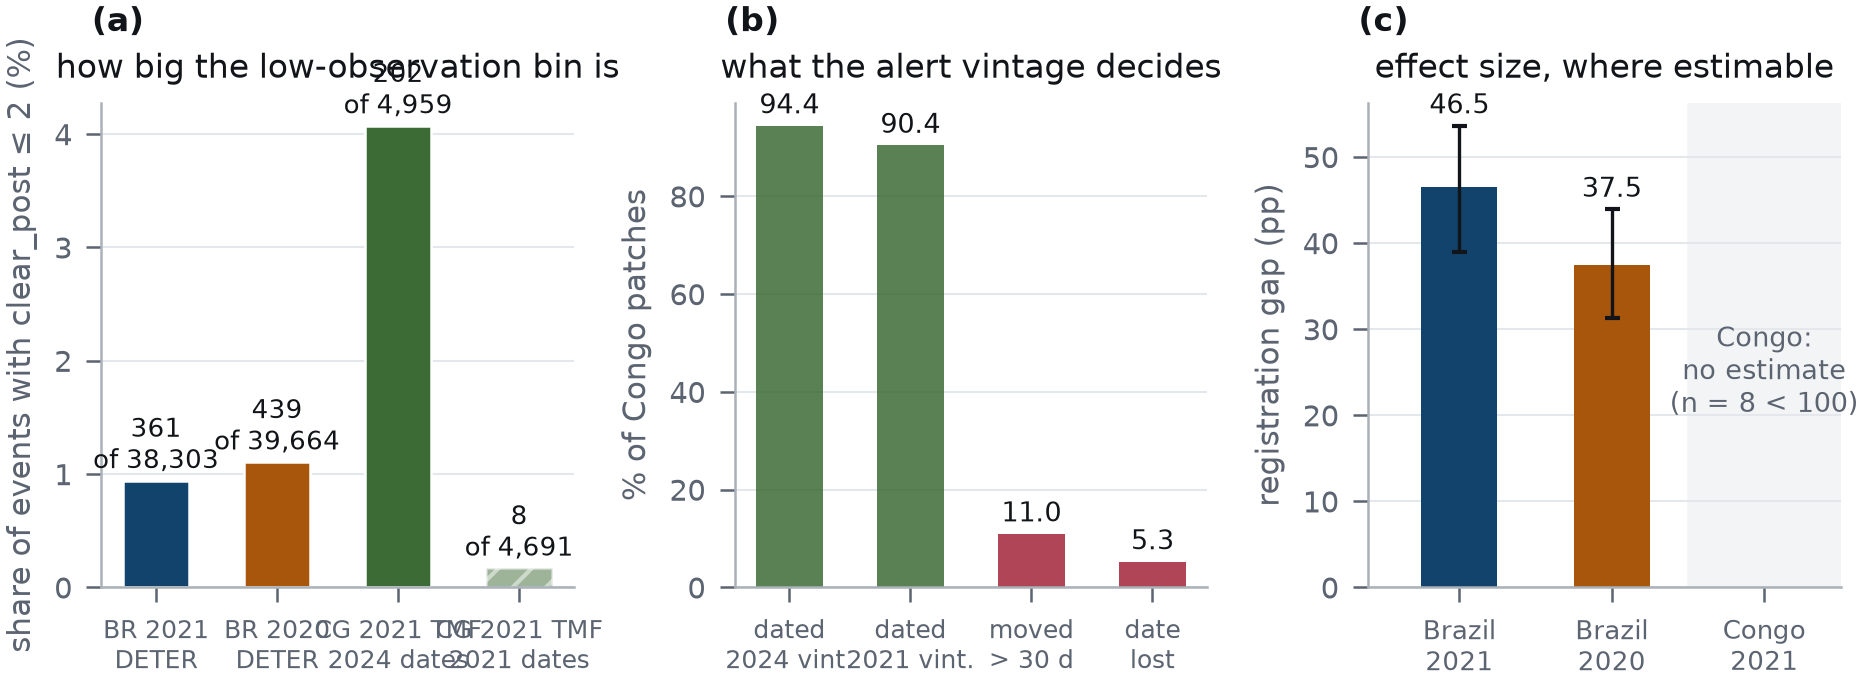
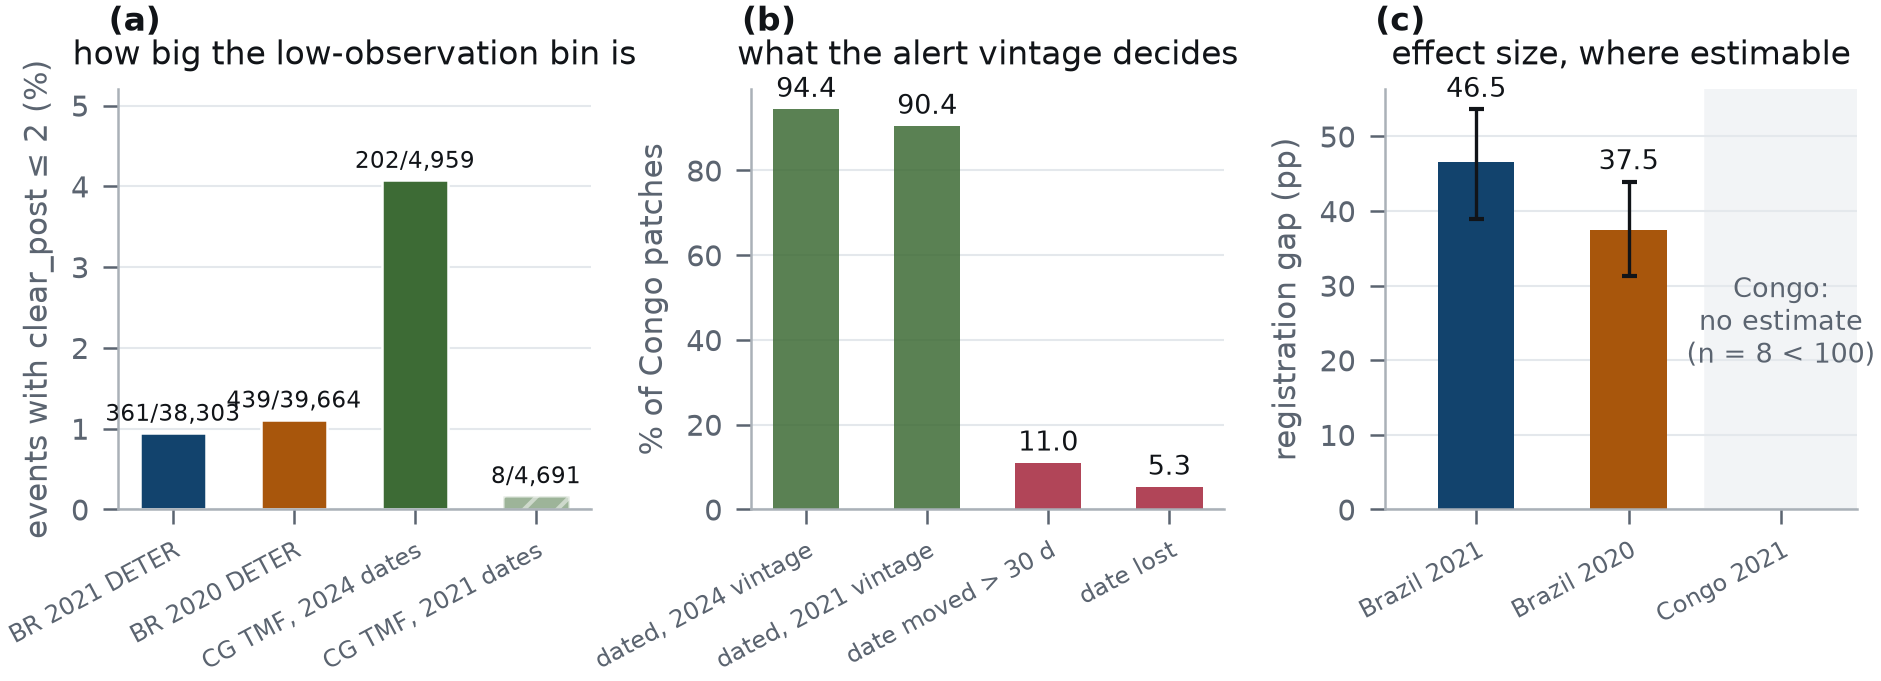
TB01-P8 item 4: F6 rotated category labels, annotations clear of the title
Panels (a), (b) and (c) now carry single-line category labels rotated 28 degrees and
right-anchored, so neighbouring labels no longer run into one another. Panel (a) gains
headroom so the '202/4,959' callout on the tall Congo bar sits below the title rather than
across it, the count annotations are compressed to n/total form so the two short bars do
not collide, and the y-axis label is shortened to clear the rotated ticks.

diff --git a/aef_explore/paper/code/fig_results.py b/aef_explore/paper/code/fig_results.py
@@ -243,33 +243,36 @@ def f5():
     n = numbers()
     cg = json.load(open("aef_explore/stage5/TB01/P5b/p4b_stats.json"))
     fig, axes = plt.subplots(1, 3, figsize=(W2, W2 * 0.36))
-    fig.subplots_adjust(wspace=0.34, top=0.80, bottom=0.20)
+    fig.subplots_adjust(wspace=0.34, top=0.82, bottom=0.30)
     ax = axes[0]
-    rows = [("BR 2021\nDETER", n["2021_date_upper"]["n"], n["2021_date_upper"]["n_lo"], C["2021"]),
-            ("BR 2020\nDETER", n["2020_date_upper"]["n"], n["2020_date_upper"]["n_lo"], C["2020"]),
-            ("CG 2021 TMF\n2024 dates", 4959, 202, C["congo"]),
-            ("CG 2021 TMF\n2021 dates", cg["n"], cg["n_lo"], C["congo"])]
+    rows = [("BR 2021 DETER", n["2021_date_upper"]["n"], n["2021_date_upper"]["n_lo"], C["2021"]),
+            ("BR 2020 DETER", n["2020_date_upper"]["n"], n["2020_date_upper"]["n_lo"], C["2020"]),
+            ("CG TMF, 2024 dates", 4959, 202, C["congo"]),
+            ("CG TMF, 2021 dates", cg["n"], cg["n_lo"], C["congo"])]
     for i, (lab, tot, lo, col) in enumerate(rows):
         ax.bar(i, 100 * lo / tot, 0.55, color=col, alpha=1.0 if i != 3 else 0.5,
                hatch="" if i != 3 else "///", edgecolor="white")
-        ax.annotate(f"{lo:,}\nof {tot:,}", (i, 100 * lo / tot), textcoords="offset points",
-                    xytext=(0, 3), ha="center", fontsize=6.2, color=INK)
+        ax.annotate(f"{lo:,}/{tot:,}", (i, 100 * lo / tot), textcoords="offset points",
+                    xytext=(0, 3), ha="center", fontsize=5.6, color=INK)
+    ax.set_ylim(0, 5.2)
     ax.set_xticks(range(len(rows)))
-    ax.set_xticklabels([r[0] for r in rows], fontsize=6.0)
-    ax.set_ylabel("share of events with clear_post ≤ 2 (%)")
+    ax.set_xticklabels([r[0] for r in rows], fontsize=5.8, rotation=28, ha="right",
+                       rotation_mode="anchor")
+    ax.set_ylabel("events with clear_post ≤ 2 (%)")
     ax.set_title("how big the low-observation bin is", color=INK, pad=6)
     tidy(ax)
     ax = axes[1]
-    bars = [("dated\n2024 vint.", 100 * cg["coverage_2024_vintage_P4"], C["congo"]),
-            ("dated\n2021 vint.", 100 * cg["coverage_2021_vintage_all"], C["congo"]),
-            ("moved\n> 30 d", 100 * cg["shift_gt30_share"], C["flag"]),
-            ("date\nlost", 100 * cg["lost_share"], C["flag"])]
+    bars = [("dated, 2024 vintage", 100 * cg["coverage_2024_vintage_P4"], C["congo"]),
+            ("dated, 2021 vintage", 100 * cg["coverage_2021_vintage_all"], C["congo"]),
+            ("date moved > 30 d", 100 * cg["shift_gt30_share"], C["flag"]),
+            ("date lost", 100 * cg["lost_share"], C["flag"])]
     for i, (lab, v, col) in enumerate(bars):
         ax.bar(i, v, 0.55, color=col, alpha=0.85)
         ax.annotate(f"{v:.1f}", (i, v), textcoords="offset points", xytext=(0, 3),
                     ha="center", fontsize=6.4, color=INK)
     ax.set_xticks(range(len(bars)))
-    ax.set_xticklabels([b[0] for b in bars], fontsize=6.0)
+    ax.set_xticklabels([b[0] for b in bars], fontsize=5.8, rotation=28, ha="right",
+                       rotation_mode="anchor")
     ax.set_ylabel("% of Congo patches")
     ax.set_title("what the alert vintage decides", color=INK, pad=6)
     tidy(ax)
@@ -285,8 +288,9 @@ def f5():
     ax.axvspan(1.5, 2.5, color="#f2f4f6", zorder=0)
     ax.annotate("Congo:\nno estimate\n(n = %d < 100)" % cg["n_lo"], (2, 25), ha="center",
                 va="center", fontsize=6.4, color=INK2)
-    ax.set_xticks([0, 1, 2]); ax.set_xticklabels(["Brazil\n2021", "Brazil\n2020", "Congo\n2021"],
-                                                 fontsize=6.2)
+    ax.set_xticks([0, 1, 2])
+    ax.set_xticklabels(["Brazil 2021", "Brazil 2020", "Congo 2021"], fontsize=5.8,
+                       rotation=28, ha="right", rotation_mode="anchor")
     ax.set_xlim(-0.6, 2.5)
     ax.set_ylabel("registration gap (pp)")
     ax.set_title("effect size, where estimable", color=INK, pad=6)
